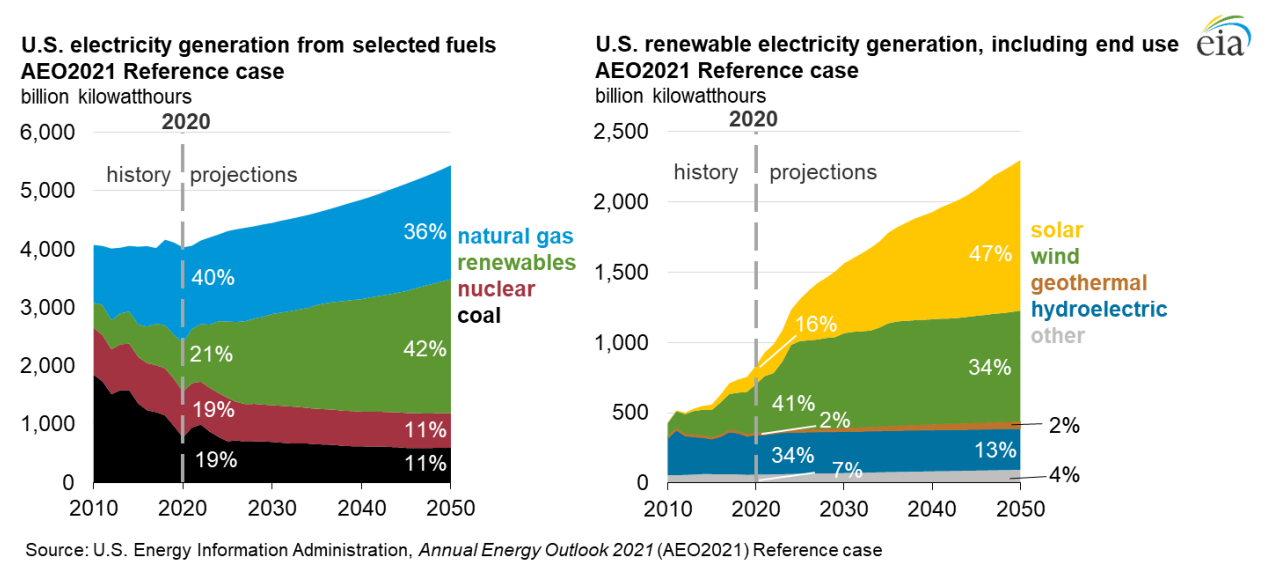
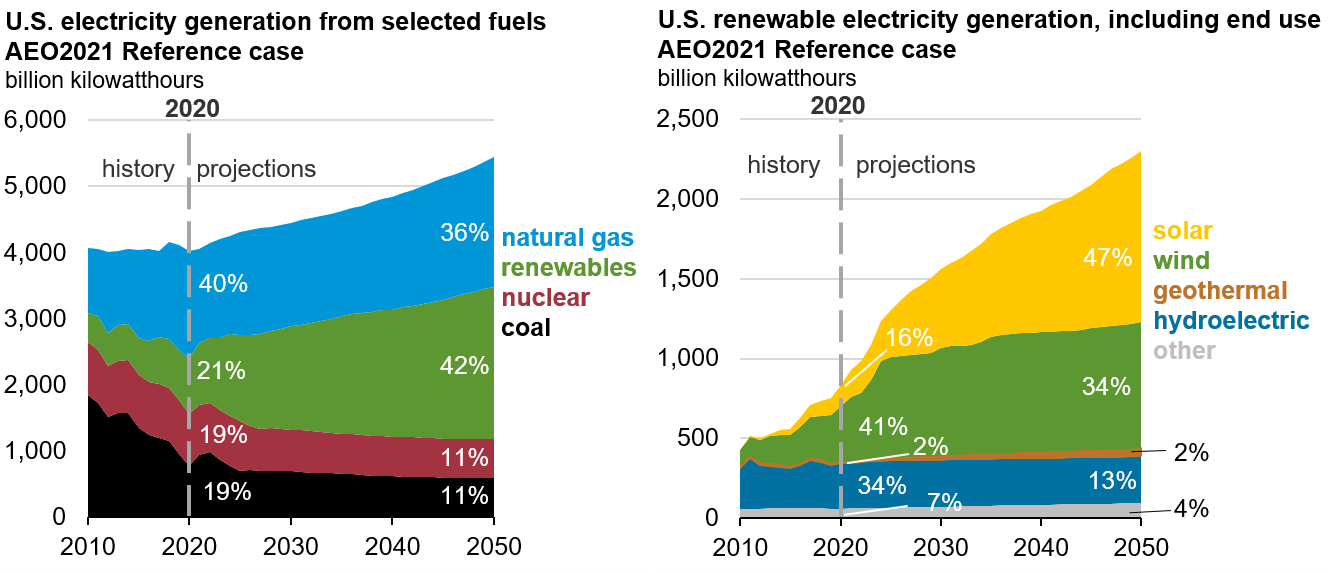
added section 1.1

diff --git a/templates/chap1.tex b/templates/chap1.tex
@@ -9,14 +9,17 @@ The pursuit of energy has shaped the story of mankind from the very beginning. A
 
 This thesis examines how uncertainty characterization and risk mitigation can increase the role of one source, geothermal, in addressing the ever-growing energy needs in a viable way. This chapter reflects on the extent of those needs and the conditions that may uniquely support an increased focus on geothermal in the near-term. Opportunities and challenges associated with geothermal also lay the foundation for research questions motivating the remainder of this body of work.
 
-\section{Trends in Energy Usage}\label{ch1:trends}
-The \acrlong{eia} publishes annual forecasts on U.S. energy generation and consumption in the \acrlong{aeo} report. Based on the 2020 reference case, the \acrshort{aeo} model predicts a 50\% increase in U.S. energy consumption by 2050 (Figure \ref{fig:eia_2021_projections}) and decreasing electricity generation in all sectors except renewables \citep{us_energy_information_administration_annual_2021}. The \acrlong{ieo} shows similar increases in energy demand and renewables consumption, although more traditional sources of energy like coal, natural gas, petroleum, and nuclear also grow to meet the needs of India, China, and other rapidly developing nations \citep{us_energy_information_administration_international_2020}. A deeper look into the 2020 reference case shows solar and wind-based energy generation as the primary drivers in renewables, while geothermal contributions are relatively minor by comparison (Figure \ref{fig:eia_2021_projections}). 
+\section{Energy Trends}\label{ch1:trends}
+The \acrlong{eia} (\acrshort{eia}) publishes annual forecasts on U.S. energy generation and consumption in the \acrlong{aeo} report. Based on the 2020 reference case, the \acrshort{aeo} model predicts a 70\% increase in U.S. energy consumption by 2050 driven primarily by the industrial and power sectors \citep{us_energy_information_administration_annual_2021}. Electricity generation also grows by one third, driven primarily by renewables and natural gas as coal, nuclear, and oil see reductions (Figure \ref{fig:eia_2021_projections}). These predictions are offered with the caveat of much greater uncertainty due to the impact of the COVID-19 pandemic, although the \acrshort{eia} suggests a return to normal will occur by 2025 and broader, decadal trends will be unchanged \citep{us_energy_information_administration_annual_2021}. International forecasts show similar growth in consumption and production, but traditional sources of energy like coal and natural gas also increase in capacity to meet the needs of India, China, and other rapidly developing nations \citep{us_energy_information_administration_international_2020}. 
+ 
 \begin{figure}[htp]
 \centering
-\includegraphics[scale=0.45]{Figure001-EIA_projections}
-\caption[U.S. EIA projections based on the AEO2020 reference case]{U.S. EIA projections of (Left) U.S. electricity generation by sector and (Right) individual contributions by renewable type based on the AEO2020 reference case \protect\citep{us_energy_information_administration_annual_2021}}
+\includegraphics[scale=0.6]{Figure001-EIA_projections}
+\caption[U.S. EIA projections based on the AEO2021 reference case]{U.S. EIA projections of (Left) U.S. electricity generation by sector and (Right) individual contributions by renewable type based on the AEO2021 reference case \protect\citep{us_energy_information_administration_annual_2021}}
 \label{fig:eia_2021_projections}
 \end{figure}
+
+Lazard Asset Management breaks renewables down by \acrlong{lcoe} (\acrshort{lcoe}) in U.S. dollars/\acrshort{mwh}, where \acrshort{lcoe} is the estimated lifetime average net cost per unit energy of an electricity generating plant. In their 2020 analysis, intermittent energy sources like wind and utility-scale solar are already cost-competitive with fossil fuel-derived sources \citep{lazard_lazards_2020}. Geothermal, an “always on” source of power, ranges from \$59-\$101/\acrshort{mwh}  \acrshort{lcoe}, making it second-tier in cost competitiveness but comparable to community and rooftop solar installations \citep{lazard_lazards_2020}. Overall, the transition in energy sources away from fossil fuel dominance is in progress, and the demand for energy in support of population growth and country development will remain driver over the next 30 years.
 
 %section~\ref{ch1:sec}.
 

diff --git a/templates/acronyms.tex b/templates/acronyms.tex
@@ -1,3 +1,6 @@
 \newacronym{aeo}{AEO}{Annual Energy Outlook}
 \newacronym{eia}{EIA}{United States Energy Information Administration}
 \newacronym{ieo}{IEO}{International Energy Outlook}
+\newacronym{kwh}{kWh}{Kilowatt-Hour}
+\newacronym{lcoe}{LCOE}{Levelized Cost of Electricity}
+\newacronym{mwh}{MWh}{Megawatt-Hour}
